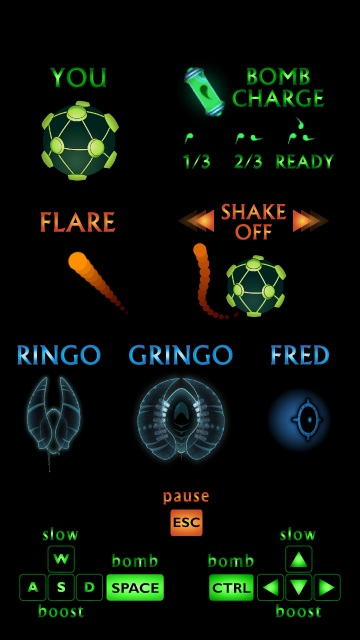
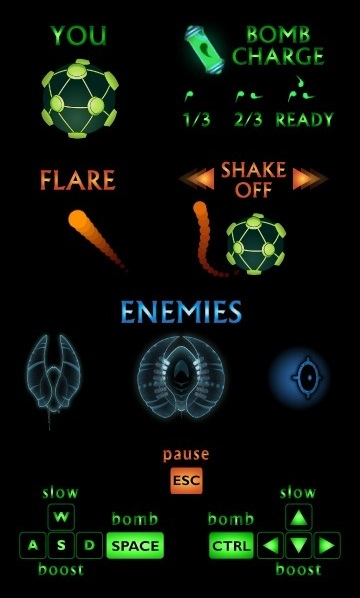
Added/removed images, updated file names

diff --git a/projects/robotics-ui.html b/projects/robotics-ui.html
@@ -49,7 +49,7 @@ The bulk of my work, however, involved fixing, updating, and polishing the many 
     </div>
 
     <div class="block-image-grid" style="align-items: stretch;">
-      <img src="../images/rui/pretime-reachui.jpg" alt="Early Robotics UI" style="height: 100%; object-fit: cover;" data-caption="Robot arm environment visualized in the UI" />
+      <img src="../images/rui/reach-2020.jpg" alt="Early Robotics UI" style="height: 100%; object-fit: cover;" data-caption="Robot arm environment visualized in the UI" />
       <img src="../images/rui/realrobot-binview-square.jpg" alt="Real robot bin view" style="height: 100%; object-fit: cover;" data-caption="Physical robot arm" />
       <p style="font-size: 0.9rem; color: #3c3a37; margin-top: -0.5rem; text-align: center; letter-spacing: 0.02em;">Robot arm environment visualized in the UI (2020)</p>
       <p style="font-size: 0.9rem; color: #3c3a37; margin-top: -0.5rem; text-align: center; letter-spacing: 0.02em;">The corresponding robot arm in the real world</p>
@@ -68,9 +68,9 @@ The bulk of my work, however, involved fixing, updating, and polishing the many 
     </div>
 
     <div class="block-image-grid-3">
-      <img src="../images/rui/rui-2dboardsim01.jpg" alt="2D Board Sim Robot" style="aspect-ratio: 2/3; object-fit: cover;" data-caption="Franka Emika Panda robot moving blocks" />
+      <img src="../images/rui/rui-2dboard.jpg" alt="2D Board Sim Robot" style="aspect-ratio: 2/3; object-fit: cover;" data-caption="Franka Emika Panda robot moving blocks" />
       <div style="aspect-ratio: 2/3; overflow: hidden;">
-        <img src="../images/rui/reach-foldingsim.png" alt="Folding Sim Robot" style="width: 100%; height: 100%; object-fit: cover; object-position: 49% 62%; transform: scale(1.7); transform-origin: 60% 65%;" data-caption="UR robot folding a T-shirt" />
+        <img src="../images/rui/reach-folding.png" alt="Folding Sim Robot" style="width: 100%; height: 100%; object-fit: cover; object-position: 49% 62%; transform: scale(1.7); transform-origin: 60% 65%;" data-caption="UR robot folding a T-shirt" />
       </div>
       <div style="aspect-ratio: 2/3; overflow: hidden;">
         <img src="../images/rui/rui-camera.png" alt="EDR Meta Robot" style="width: 100%; height: 100%; object-fit: cover; object-position: 58% 65%; transform: scale(2); transform-origin: 50% 70%;" data-caption="EDR Meta robot standing solemnly" />
@@ -159,7 +159,7 @@ With Python being a much more known and accessible language to AI researchers, a
     </div>
 
     <figure class="block-image" style="max-width: 1020px; margin-left: auto; margin-right: auto;">
-      <img src="../images/rui/NewRUIgif.gif" alt="Protobuf RUI" />
+      <img src="../images/rui/newruigif.gif" alt="Protobuf RUI" />
       <figcaption>UI made for robot operator workstations</figcaption>
     </figure>
     

diff --git a/main.css b/main.css
@@ -151,7 +151,7 @@ header h1 {
 }
 
 .section-label {
-  font-size: clamp(1.05rem, 1.1vw, 1.25rem);
+  font-size: clamp(1.05rem, 1.1vw, 1.2rem);
   font-weight: 600;
   letter-spacing: 2px;
   text-transform: uppercase;

diff --git a/projects/breach.html b/projects/breach.html
@@ -85,7 +85,7 @@ And the player can boost and slow the ship using slowly recharging energy to bet
       </div>
       <figure class="split-image">
         <div class="split-img-fill">
-          <img src="../images/breach/breach-instructions-black-edit2.jpg" alt="Breach keyboard instruction" />
+          <img src="../images/breach/breach-instructions-black.jpg" alt="Breach keyboard instruction" />
         </div>
         <figcaption>Keyboard gameplay instructions</figcaption>
       </figure>

diff --git a/projects/sturfee.html b/projects/sturfee.html
@@ -283,7 +283,7 @@ Our biggest partner KDDI made numerous exhibits and promotional events across Ja
         <figcaption>Clips of some AR exhibits in Tokyo and Nagano through the XR Channel app</figcaption>
       </figure>
       <figure class="vertical-gif-col">
-        <img src="../images/sturfee/penguin-ar.gif" alt="Penguin AR" />
+        <img src="../images/sturfee/grampus-ar.gif" alt="Grampus AR" />
         <figcaption>Taking pics of the Grampus mascot and sign of player Kazuhiko Chiba at Toyotashi station</figcaption>
       </figure>
     </div>